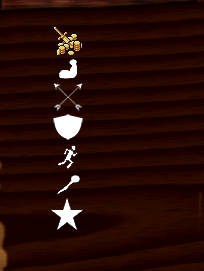
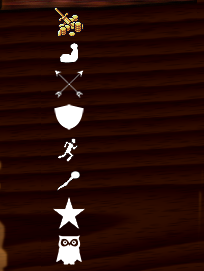
adding stats screen

Changed region(s): [[0.2353, 0.0295, 0.4118, 0.9742]]

diff --git a/main.js b/main.js
@@ -41,7 +41,7 @@ var mainState = {
         //GUI
         var leftPanel = game.add.sprite(0, game.world.bottom * 0.099, 'leftPanel');
         var topPanel = game.add.sprite(0, 0, 'topPanel');
-        var rightMiddlePanel = game.add.sprite(game.world.width * 0.88, game.world.centerY * 0.627, 'rightMiddlePanel');
+        var rightMiddlePanel = game.add.sprite(game.world.width * 0.88, game.world.centerY * 0.627, 'rightMiddlePanelStats');
         rightMiddlePanel.anchor.set(0.5);
         var rightPanel = game.add.sprite(game.world.width * 0.7063, 0, 'rightPanel');
         var bottomPanel = game.add.sprite(game.world.centerX * 0.7475, game.world.bottom * 0.8365, 'bottomPanel');

diff --git a/load.js b/load.js
@@ -19,6 +19,7 @@ var loadState = {
         game.load.image('leftPanel', 'assets/gui/gui_LeftPanel.png');
         game.load.image('bottomPanel', 'assets/gui/gui_BottomPanel.png');
         game.load.image('rightMiddlePanel', 'assets/gui/gui_RightPanel_Middle.png');
+        game.load.image('rightMiddlePanelStats', 'assets/gui/gui_RightPanel_Middle_Stats.png');
         game.load.spritesheet('player', 'assets/PlayerSheet.png', 46, 45, 16);
         game.load.spritesheet('goldSprites', 'assets/GoldSheet.png', 32, 32, 10);
     },
